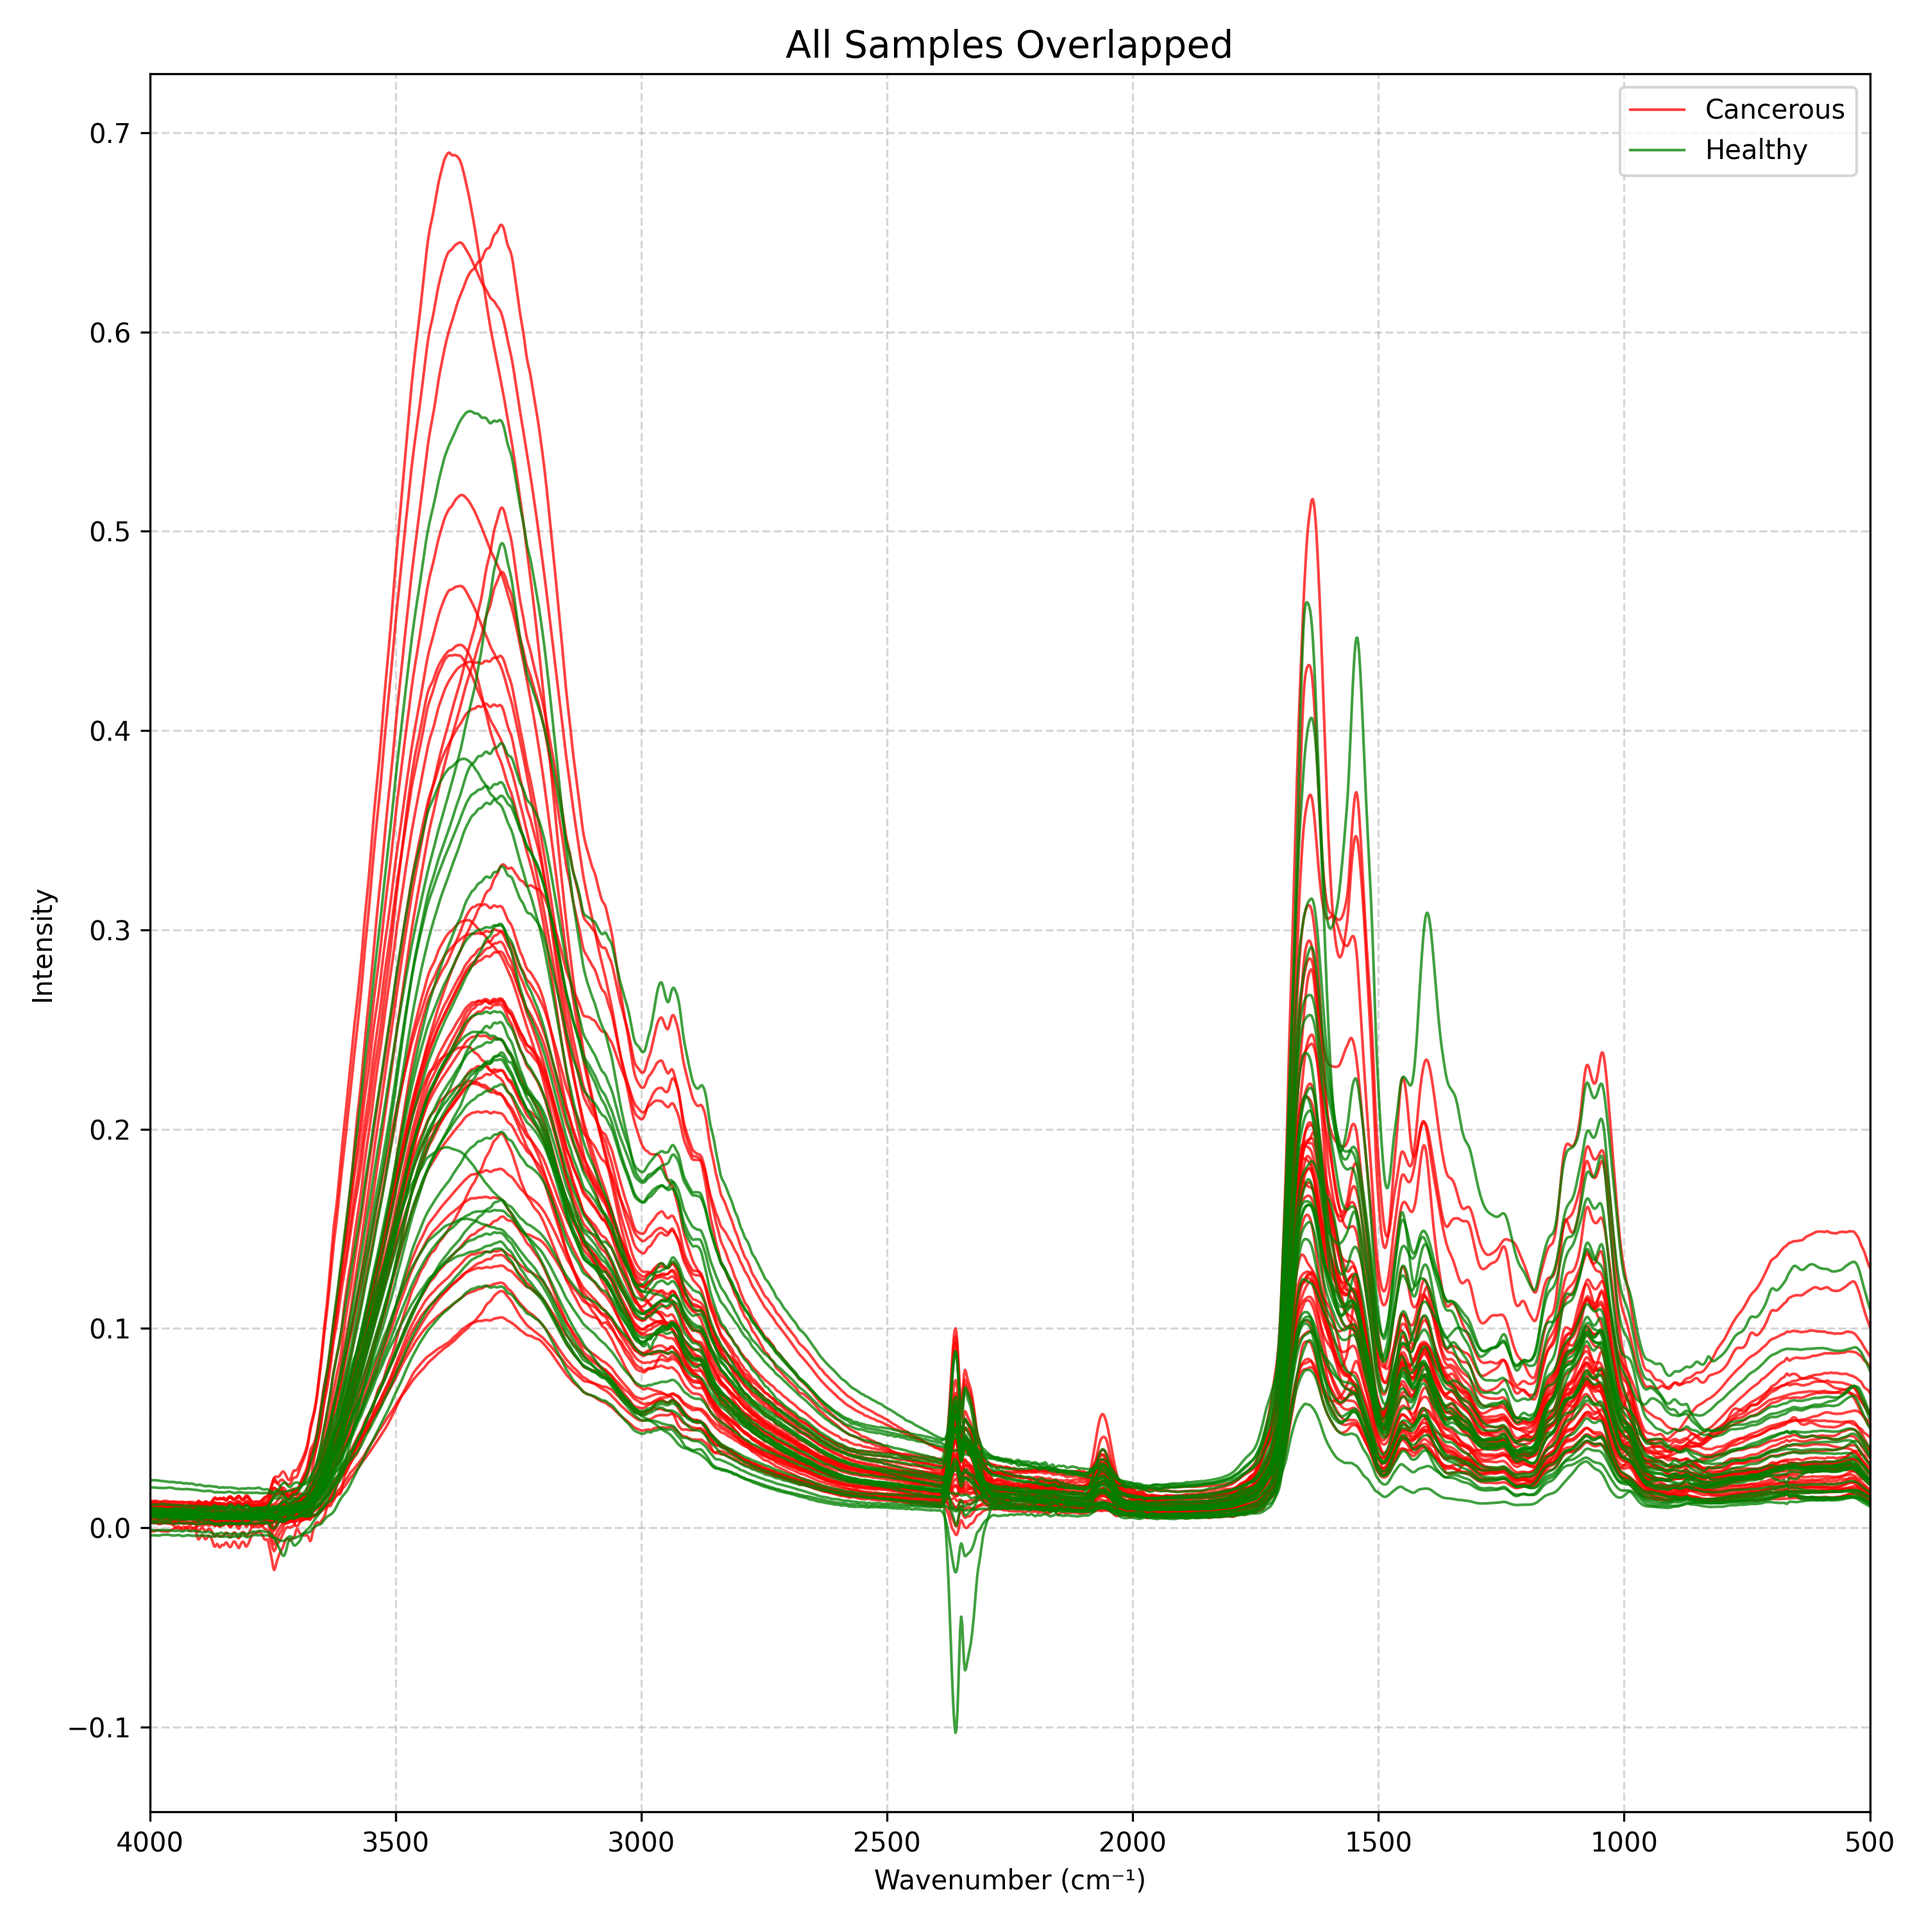
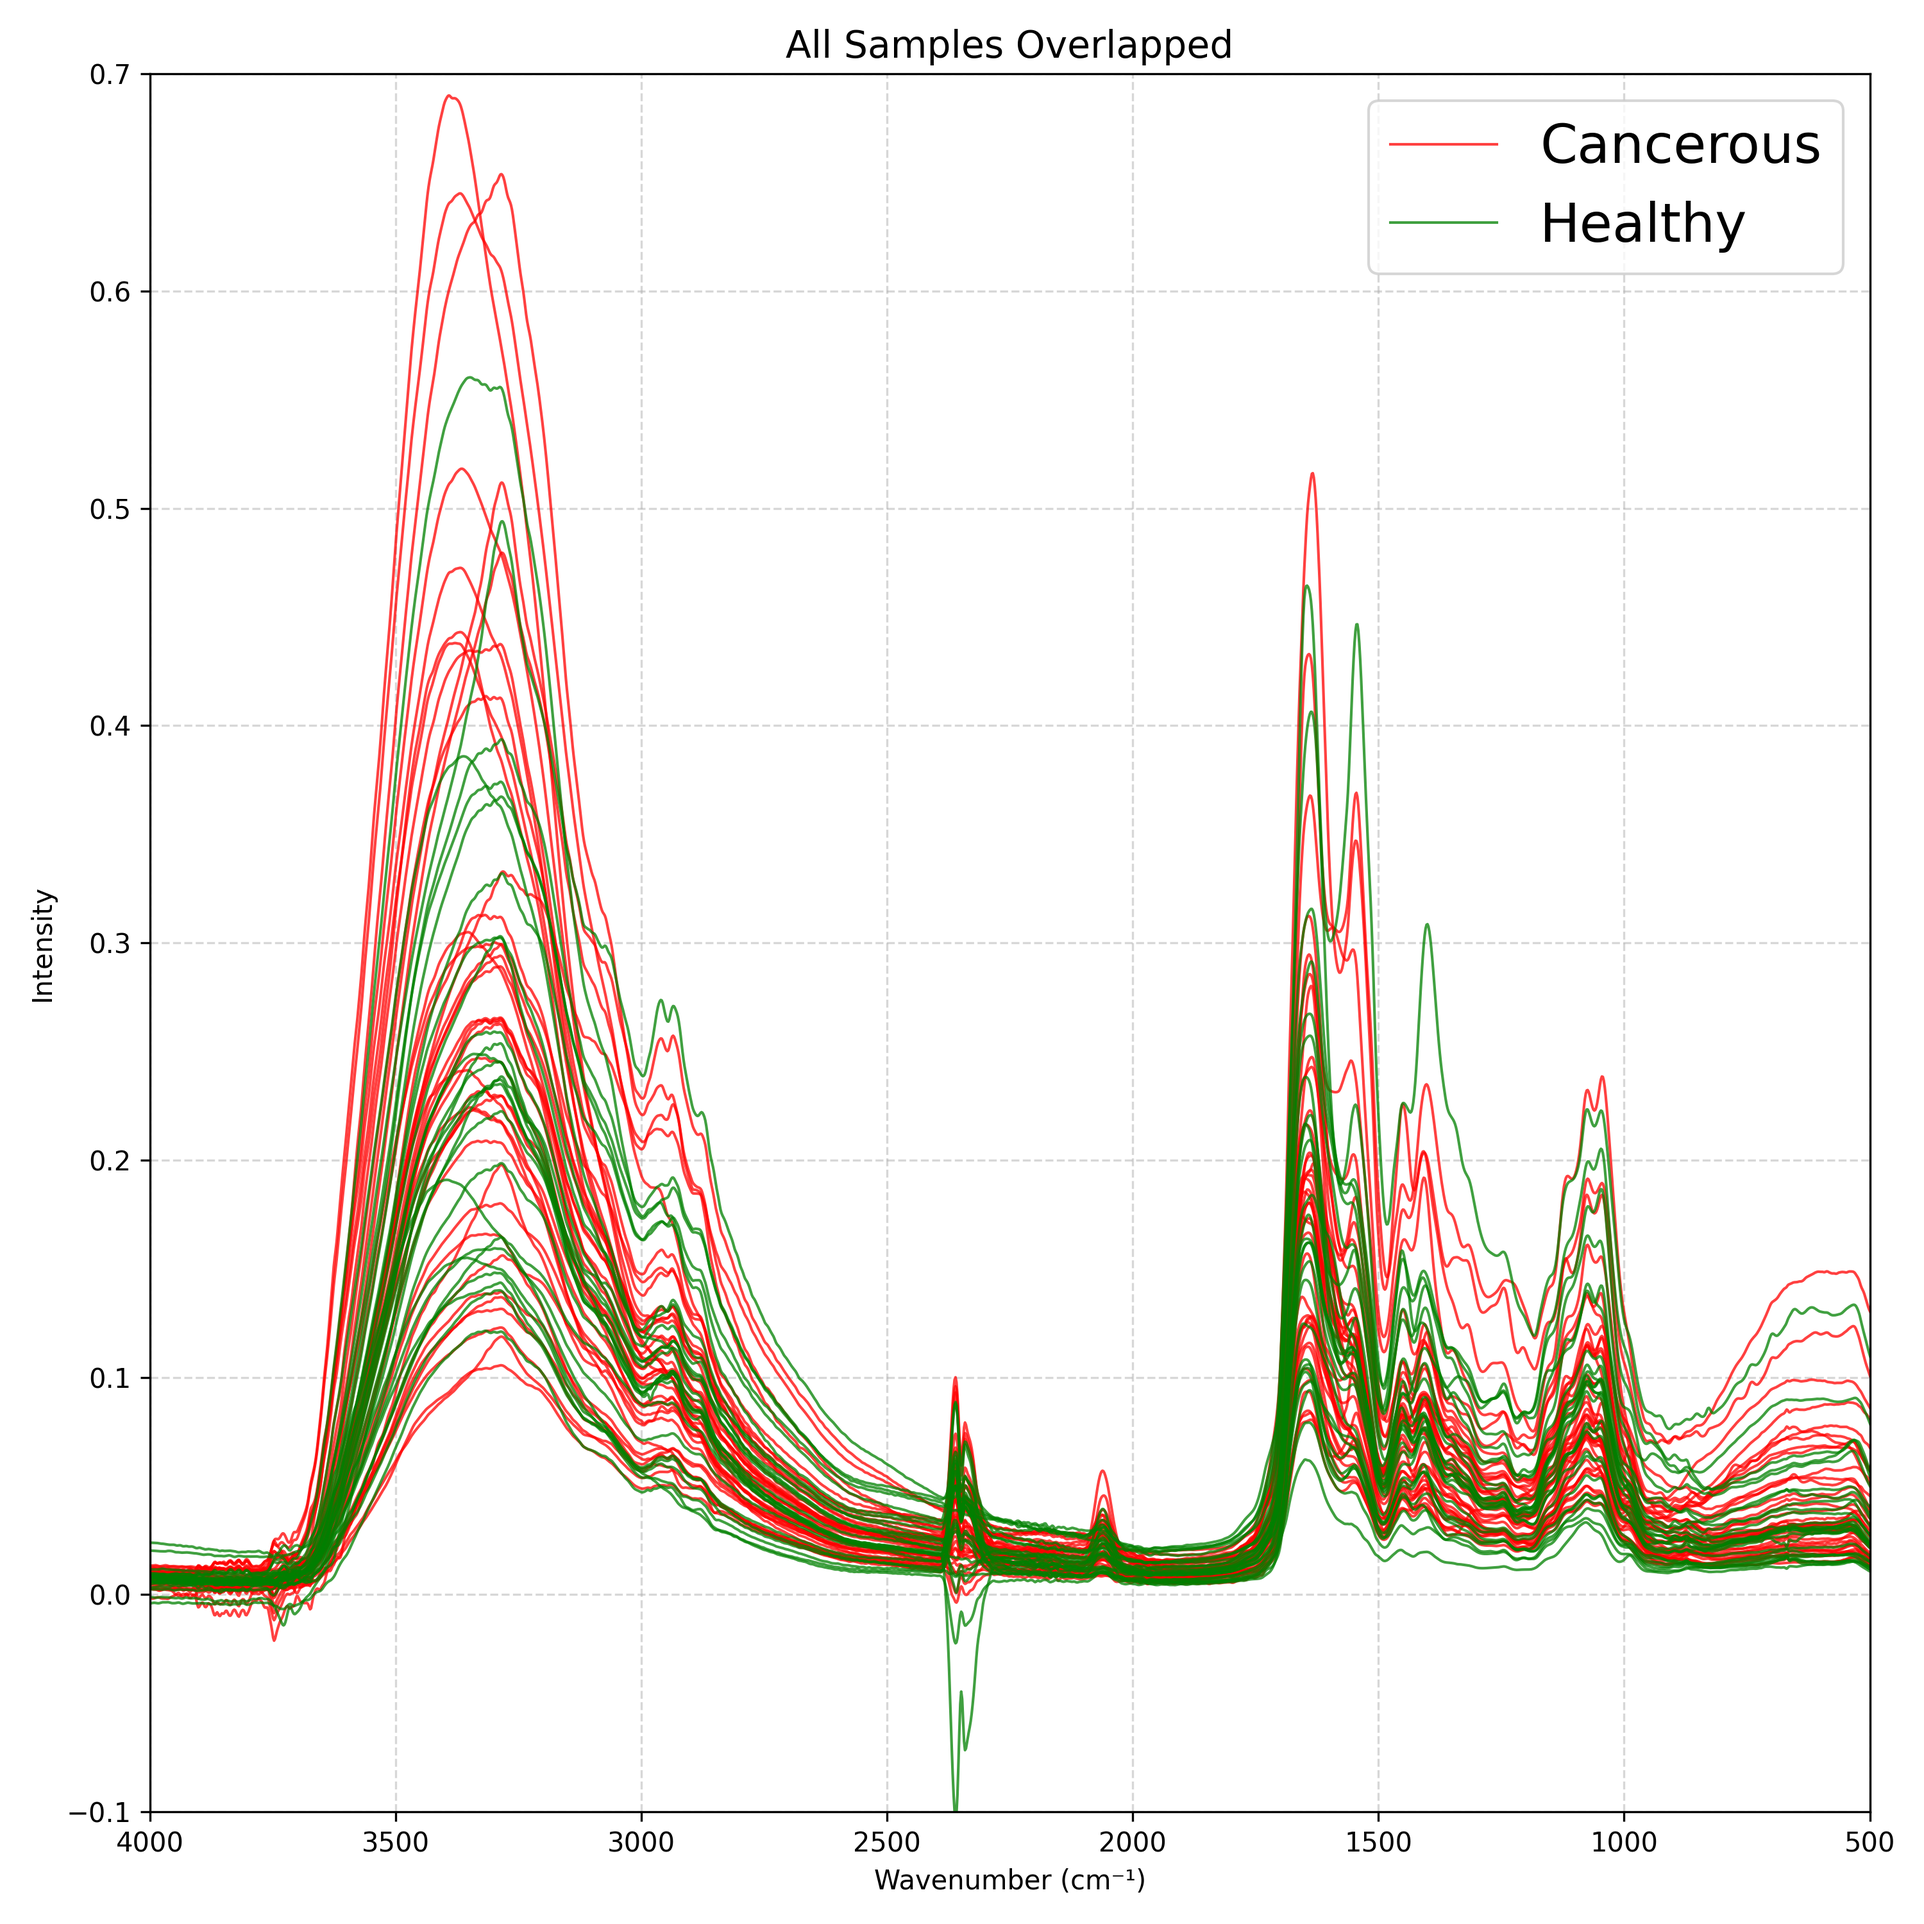
feat: preparation to remote run

diff --git a/optimize/optimize_transformer_params.py b/optimize/optimize_transformer_params.py
@@ -1,0 +1,184 @@
+import optuna
+import numpy as np
+from sklearn.model_selection import StratifiedKFold
+from datetime import datetime
+import warnings
+
+from preProcess.baseline_correction import BaselineCorrection
+from preProcess.fingerprint_trucate import WavenumberTruncator
+from preProcess.normalization import Normalization
+from transformer.model import BioSpectralFormer
+
+warnings.filterwarnings('ignore')
+
+# Preprocessing (run once, not per trial)
+dataset_path = "dataset_cancboca.dat"
+dataset = np.loadtxt(dataset_path)
+X_raw = dataset[:, :-1]
+y = dataset[:, -1].astype(int)
+y = np.where(y == -1, 0, 1)
+
+baseline = BaselineCorrection().asls_baseline(X_raw)
+X = X_raw - baseline
+X = Normalization().peak_normalization(X, 1660.0, 1630.0)
+X = WavenumberTruncator().trucate_range(X, 3050.0, 850.0)
+
+N_TRIALS = 100
+N_FOLDS = 10
+skf = StratifiedKFold(n_splits=N_FOLDS, shuffle=True, random_state=1)
+
+
+def objective(trial):
+    # Architecture parameters
+    d_model = trial.suggest_categorical('d_model', [16, 32, 64])
+    nhead = trial.suggest_categorical('nhead', [1, 2, 4, 8])
+    num_layers = trial.suggest_int('num_layers', 1, 3)
+    dim_feedforward = trial.suggest_categorical('dim_feedforward', [32, 64, 128])
+    patch_size = trial.suggest_categorical('patch_size', [8, 16, 32])
+
+    # Regularization
+    dropout = trial.suggest_float('dropout', 0.1, 0.5)
+
+    # Training parameters
+    lr = trial.suggest_float('lr', 1e-4, 1e-2, log=True)
+    weight_decay = trial.suggest_float('weight_decay', 1e-6, 1e-3, log=True)
+    batch_size = trial.suggest_categorical('batch_size', [4, 8, 16])
+    patience = trial.suggest_int('patience', 30, 80, step=10)
+
+    # Contrastive learning
+    supcon_temperature = trial.suggest_float('supcon_temperature', 0.03, 0.2, log=True)
+
+    # Validate nhead divides d_model
+    if d_model % nhead != 0:
+        raise optuna.exceptions.TrialPruned()
+
+    all_metrics = []
+    for fold_idx, (train_index, test_index) in enumerate(skf.split(X, y)):
+        X_train_fold, X_test_fold = X[train_index], X[test_index]
+        y_train_fold, y_test_fold = y[train_index], y[test_index]
+
+        model = BioSpectralFormer(
+            num_spectral_points=X.shape[1],
+            d_model=d_model,
+            nhead=nhead,
+            num_layers=num_layers,
+            dim_feedforward=dim_feedforward,
+            dropout=dropout,
+            patch_size=patch_size,
+            lr=lr,
+            weight_decay=weight_decay,
+            n_epochs=200,
+            batch_size=batch_size,
+            patience=patience,
+            supcon_temperature=supcon_temperature,
+            verbose=False,
+        )
+        eval_metrics = model.evaluate(X_train_fold, X_test_fold, y_train_fold, y_test_fold)
+        all_metrics.append(eval_metrics)
+
+        # Prune after 3 folds if performance is poor
+        if fold_idx == 2:
+            interim_score = np.mean([m[4] for m in all_metrics])
+            trial.report(interim_score, step=fold_idx)
+            if trial.should_prune():
+                raise optuna.exceptions.TrialPruned()
+
+    avg_metrics = np.mean(all_metrics, axis=0)
+    std_metrics = np.std(all_metrics, axis=0)
+
+    # Store all metrics for the results file
+    trial.set_user_attr('avg_accuracy', avg_metrics[0])
+    trial.set_user_attr('avg_precision', avg_metrics[1])
+    trial.set_user_attr('avg_sensitivity', avg_metrics[2])
+    trial.set_user_attr('avg_specificity', avg_metrics[3])
+    trial.set_user_attr('avg_mean_se_sp', avg_metrics[4])
+    trial.set_user_attr('std_accuracy', std_metrics[0])
+    trial.set_user_attr('std_mean_se_sp', std_metrics[4])
+
+    return avg_metrics[4]  # Optimize Mean(Sensitivity, Specificity)
+
+
+study = optuna.create_study(
+    direction='maximize',
+    study_name='transformer_params_optimization',
+    sampler=optuna.samplers.TPESampler(seed=42),
+    pruner=optuna.pruners.MedianPruner(n_startup_trials=10, n_warmup_steps=2),
+)
+
+study.optimize(objective, n_trials=N_TRIALS, show_progress_bar=True)
+
+# Write results to file
+output_path = "optimize/transformer_params_results.txt"
+with open(output_path, 'w') as f:
+    f.write("=" * 70 + "\n")
+    f.write("BioSpectralFormer Hyperparameter Optimization Results\n")
+    f.write(f"Date: {datetime.now().strftime('%Y-%m-%d %H:%M:%S')}\n")
+    f.write(f"Trials: {N_TRIALS} | Folds: {N_FOLDS}\n")
+    f.write("=" * 70 + "\n\n")
+
+    # Best trial
+    best = study.best_trial
+    f.write("BEST TRIAL\n")
+    f.write("-" * 70 + "\n")
+    f.write(f"Trial #: {best.number}\n")
+    f.write(f"Mean(SE,SP): {best.value:.4f} ± {best.user_attrs.get('std_mean_se_sp', 0):.4f}\n")
+    f.write(f"Accuracy:    {best.user_attrs.get('avg_accuracy', 0):.4f} ± {best.user_attrs.get('std_accuracy', 0):.4f}\n")
+    f.write(f"Precision:   {best.user_attrs.get('avg_precision', 0):.4f}\n")
+    f.write(f"Sensitivity: {best.user_attrs.get('avg_sensitivity', 0):.4f}\n")
+    f.write(f"Specificity: {best.user_attrs.get('avg_specificity', 0):.4f}\n\n")
+
+    f.write("BEST PARAMETERS\n")
+    f.write("-" * 70 + "\n")
+
+    # Group parameters by category
+    arch_params = ['d_model', 'nhead', 'num_layers', 'dim_feedforward', 'patch_size']
+    train_params = ['lr', 'weight_decay', 'batch_size', 'patience', 'dropout']
+    loss_params = ['center_loss_weight', 'supcon_weight', 'supcon_temperature', 'mask_penalty']
+
+    f.write("  Architecture:\n")
+    for p in arch_params:
+        f.write(f"    {p:25s}: {best.params[p]}\n")
+
+    f.write("  Training:\n")
+    for p in train_params:
+        f.write(f"    {p:25s}: {best.params[p]}\n")
+
+    bce_w = 1.0 - best.params['center_loss_weight'] - best.params['supcon_weight']
+    f.write("  Loss weights:\n")
+    for p in loss_params:
+        f.write(f"    {p:25s}: {best.params[p]:.6f}\n")
+    f.write(f"    {'bce_weight (derived)':25s}: {bce_w:.6f}\n\n")
+
+    # Parameter importances
+    f.write("PARAMETER IMPORTANCES\n")
+    f.write("-" * 70 + "\n")
+    importance = optuna.importance.get_param_importances(study)
+    for param, value in importance.items():
+        f.write(f"  {param:25s}: {value:.4f}\n")
+
+    # Top 5 trials
+    f.write(f"\nTOP 5 TRIALS\n")
+    f.write("-" * 70 + "\n")
+    sorted_trials = sorted(study.trials, key=lambda t: t.value if t.value is not None else -1, reverse=True)
+    for i, t in enumerate(sorted_trials[:5]):
+        f.write(f"  #{t.number:3d} | Mean(SE,SP)={t.value:.4f} | "
+                f"d={t.params.get('d_model','-')} h={t.params.get('nhead','-')} "
+                f"L={t.params.get('num_layers','-')} ff={t.params.get('dim_feedforward','-')} "
+                f"lr={t.params.get('lr', 0):.1e} bs={t.params.get('batch_size','-')}\n")
+
+    f.write("\n" + "=" * 70 + "\n")
+    f.write("Copy-paste constructor:\n\n")
+    f.write("BioSpectralFormer(\n")
+    f.write(f"    num_spectral_points=X.shape[1],\n")
+    for p, v in best.params.items():
+        if isinstance(v, float):
+            f.write(f"    {p}={v},\n")
+        else:
+            f.write(f"    {p}={v},\n")
+    f.write(f"    bce_weight={bce_w},\n")
+    f.write(")\n")
+    f.write("=" * 70 + "\n")
+
+print(f"\nResults written to {output_path}")
+print(f"Best Mean(SE,SP): {study.best_value:.4f}")
+print(f"Best params: {study.best_params}")

diff --git a/transformer/model.py b/transformer/model.py
@@ -45,9 +45,9 @@ class BioSpectralFormer(TrainEngine, BaseClassifierModel):
                  n_epochs: int = 200,
                  batch_size: int = 8,
                  patience: int = 50,
-                 center_loss_weight: float = 0.5,
-                 supcon_weight: float = 0,
-                 bce_weight: float = 0.5,
+                 center_loss_weight: float = 0.5299722252605205,
+                 supcon_weight: float = 0.08147954592377823,
+                 bce_weight: float = 0.388548229,
                  supcon_temperature: float = 0.07,
                  region_pairs: list = None,
                  mask_penalty: float = 10.0,

diff --git a/ploting/mean_and_std.py b/ploting/mean_and_std.py
@@ -33,7 +33,8 @@ plt.title('Mean Spectra with Standard Deviation by Class', fontsize=14, fontweig
 plt.xlabel('Wavenumber (cm⁻¹)', fontsize=12)
 plt.ylabel('Intensity', fontsize=12)
 plt.xlim(4000, 500)
-plt.legend()
+plt.ylim(-0.1, 0.45)
+plt.legend(fontsize=20)
 plt.grid(True, linestyle='--', alpha=0.5)
 plt.tight_layout()
 

diff --git a/ploting/line_overlap.py b/ploting/line_overlap.py
@@ -31,7 +31,8 @@ plt.title(f"All Samples Overlapped", fontsize=14)
 plt.xlabel("Wavenumber (cm⁻¹)")
 plt.ylabel("Intensity")
 plt.xlim(4000, 500)
-plt.legend()
+plt.ylim(-0.1, 0.7)
+plt.legend(fontsize=20)
 plt.grid(True, linestyle="--", alpha=0.5)
 plt.tight_layout()
 
